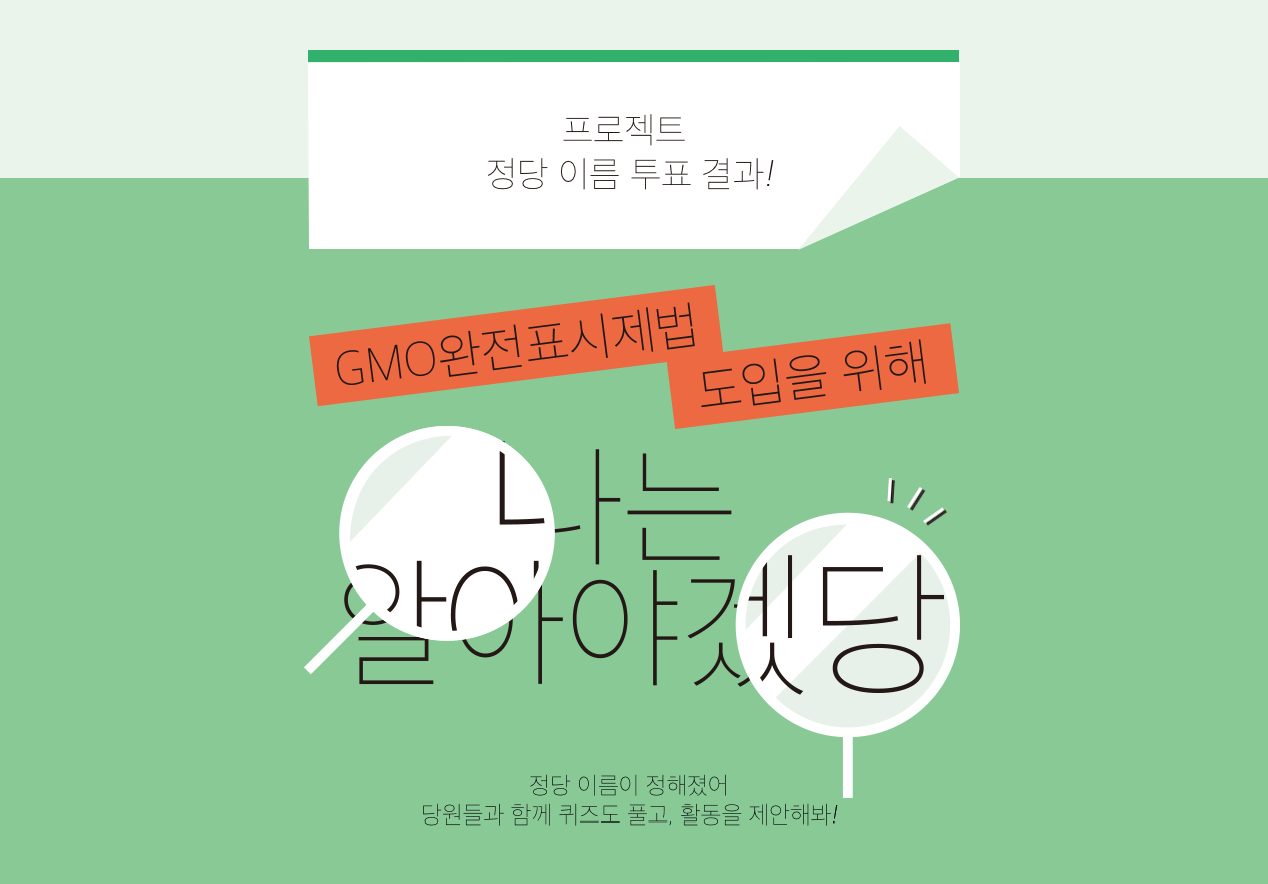
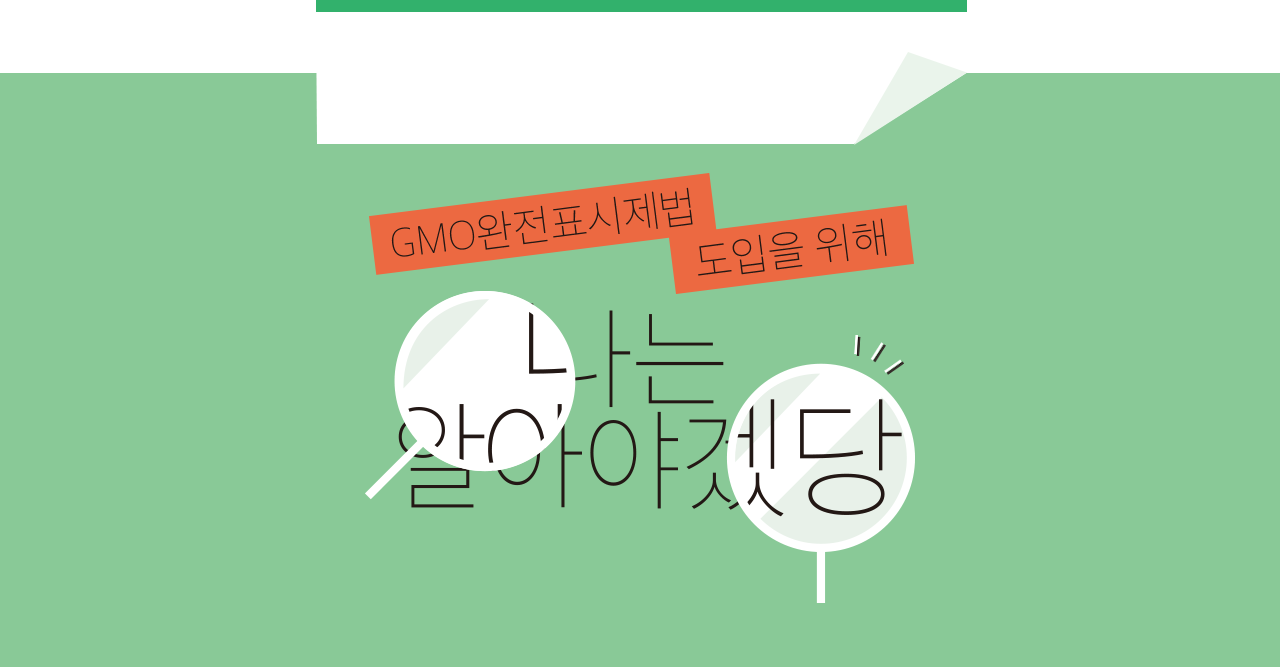
투표결과&퀴즈 섹션 구분을 위한 디자인 개선

Changed region(s): [[0.0, 0.0, 1.0, 0.9295]]

diff --git a/app/assets/stylesheets/_project_step2.scss b/app/assets/stylesheets/_project_step2.scss
@@ -244,7 +244,6 @@ section#project-step2 {
       @media (max-width: 767px) {
         padding: 0;
       }
-      margin-bottom: 40px;
       img {
         width: 100%;
       }
@@ -252,6 +251,7 @@ section#project-step2 {
   }
 
   section#quiz {
+    background-color: #fff;
     .quiz-panel {
       text-align: center;
       background-color: #fff;
@@ -261,7 +261,7 @@ section#project-step2 {
 
       .quiz-before-start {
         background-image: asset_url('step2/quiz-start-background.png');
-        background-position-y: -168px;
+        background-position-y: -60px;
         background-size: cover;
         padding-bottom: 20px;
         padding-top: 10px;
